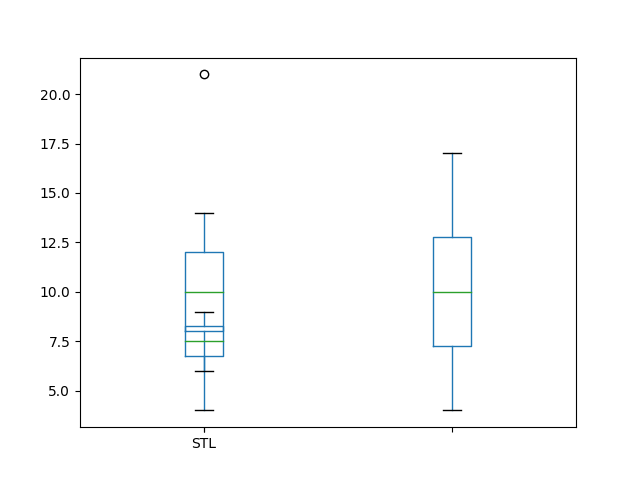
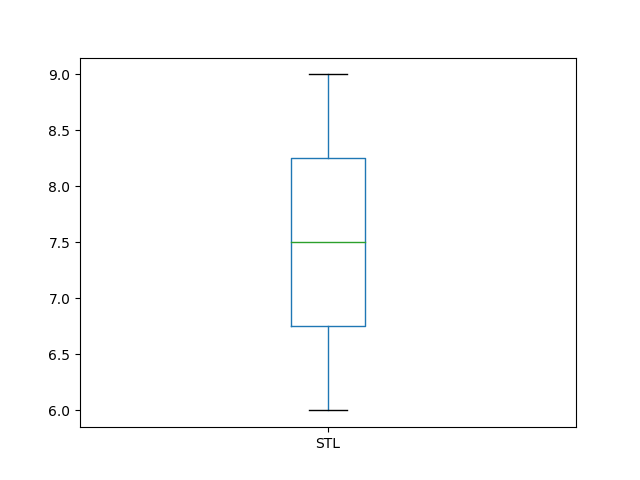
fixing bugs in charts and mistakes in results.txt

diff --git a/src/box_score_data_analysis.py b/src/box_score_data_analysis.py
@@ -41,7 +41,7 @@ for season in seasons:
     blown_leads_all_seasons = blown_leads_all_seasons.append(blown_leads_single_season)
 blown_leads_all_seasons = blown_leads_all_seasons.sort_values(by=['blown_leads', 'team_abbrv'], ascending=[False, True])
 blown_leads_all_seasons.plot.bar()
-plt.savefig('results/blown_leads_all_seasons.png')
+plt.savefig('results/blown_leads_all_seasons_bar.png')
 
 # range of blown leads for the league (with team id)
 aggregation_function = {'blown_leads': 'sum'}
@@ -100,13 +100,15 @@ for season in seasons:
     blown_leads_per_season_dict[season] = season_stats_dict
 
 blown_leads_per_season_box_plot_data.plot.box()
-plt.savefig('results/blown_leads_per_season_box_plot_data.png')
+plt.savefig('results/blown_leads_per_season_box_plot.png')
 
 # mean, median, mode, range of of blown leads for STL
+stl_blown_leads_plot_data = pd.DataFrame(blown_leads_per_season_box_plot_data.loc['STL'])
+stl_blown_leads_plot_data.plot.box()
+plt.savefig('results/stl_blown_leads.png')
+
 stl_blown_leads_stats_dict = {}
 stl_blown_leads = blown_leads_per_season_box_plot_data.loc['STL']
-stl_blown_leads.plot.box()
-plt.savefig('results/stl_blown_leads.png')
 
 blown_leads_max = stl_blown_leads.max()
 blown_leads_max_season = stl_blown_leads.idxmax()
@@ -138,11 +140,11 @@ for season in seasons:
     stl_blown_leads_single_season = list(stl_blown_leads_single_season_data.iloc[0])[0]
     stl_blown_leads_lead_losses_per_season[season] = stl_blown_leads_single_season
 
-stl_blown_leads_lead_average_per_season = list(stl_blown_leads_lead_losses_per_season.values())
-stl_blown_leads_lead_average_per_season = statistics.mean(stl_blown_leads_lead_average_per_season)
+stl_blown_leads_lead_mean_per_season = list(stl_blown_leads_lead_losses_per_season.values())
+stl_blown_leads_lead_mean_per_season = statistics.mean(stl_blown_leads_lead_mean_per_season)
 
 stl_blown_leads_all_seasons_data_dict['total'] = stl_blown_leads_lead_losses_total
-stl_blown_leads_all_seasons_data_dict['average'] = stl_blown_leads_lead_average_per_season
+stl_blown_leads_all_seasons_data_dict['mean'] = stl_blown_leads_lead_mean_per_season
 stl_blown_leads_all_seasons_data_dict['seasons'] = stl_blown_leads_lead_losses_per_season
 
 
@@ -172,7 +174,7 @@ with open('results/results.txt', 'w') as f:
         f.write('\tMode: ' + str(blown_leads_per_season_dict[season]['mode']) + '\n')
         f.write('\tMedian: ' + str(blown_leads_per_season_dict[season]['median']) + '\n\n')
     f.write('St. Louis Cardinals Blown Leads Data:\n')
-    f.write('\tAverage number of blown leads for all seasons ' + seasons[0] + '-' + seasons[-1] + ': ' + str(stl_blown_leads_stats_dict['maximum']) + '\n')
+    f.write('\tAverage number of blown leads for all seasons ' + seasons[0] + '-' + seasons[-1] + ': ' + str(stl_blown_leads_stats_dict['mean']) + '\n')
     f.write('\tSeason with the most blown leads: ' + str(stl_blown_leads_stats_dict['maximum']) + '\n')
     f.write('\tSeason with the fewest blown leads: ' + str(stl_blown_leads_stats_dict['minimum']) + '\n\n')
     f.write('Data on the mean, mode, and median blown leads for all seasons ' + seasons[0] + '-' + seasons[-1] + ':\n')
@@ -181,7 +183,7 @@ with open('results/results.txt', 'w') as f:
     f.write('\tMedian: ' + str(stl_blown_leads_stats_dict['median']) + '\n\n')
     f.write('Data on games where the St. Louis Cardinals blew at least one lead and lost:\n')
     f.write('\tTotal number of "blown lead losses" for the St. Louis Cardinals from seasons ' + seasons[0] + '-' + seasons[-1] + ': ' + str(stl_blown_leads_all_seasons_data_dict['total']) + '\n')
-    f.write('\tAverage number of "blown lead losses" for the St. Louis Cardinals per season from ' + seasons[0] + '-' + seasons[-1] + ': ' + str(stl_blown_leads_all_seasons_data_dict['average']) + '\n')
+    f.write('\tAverage number of "blown lead losses" for the St. Louis Cardinals per season from ' + seasons[0] + '-' + seasons[-1] + ': ' + str(stl_blown_leads_all_seasons_data_dict['mean']) + '\n')
     f.write('\tNumber of "blown lead losses" from ' + seasons[0] + '-' + seasons[-1] + ':\n')
     for season in seasons:
         f.write('\t\t' + season + ' Blown Lead Losses: ' + str(stl_blown_leads_all_seasons_data_dict['seasons'][season]) + '\n')

diff --git a/README.md b/README.md
@@ -13,3 +13,5 @@ refine
 Run with Full DataSet
 Writeup ReadMe
 write unit tests
+run again with small data
+run again with full data
